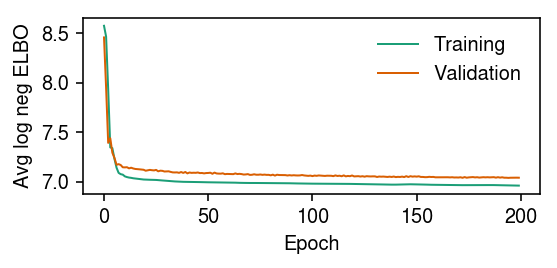
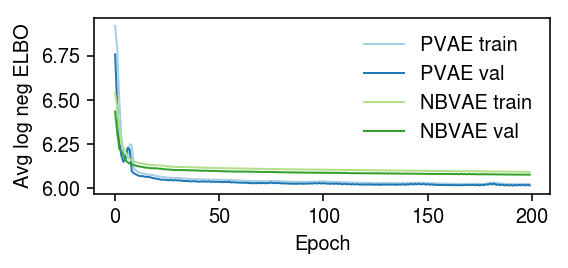
Compare NBVAE fitted values to PVAE fitted values

diff --git a/docs/fitted-values.html b/docs/fitted-values.html
@@ -1,7 +1,7 @@
 <!DOCTYPE html>
 <html lang="en">
 <head>
-<!-- 2020-03-16 Mon 19:49 -->
+<!-- 2020-07-25 Sat 16:41 -->
 <meta charset="utf-8">
 <meta name="viewport" content="width=device-width, initial-scale=1">
 <title>Comparison of fitted values</title>
@@ -344,7 +344,7 @@ np.save(<span class="org-string">'/scratch/midway2/aksarkar/modes/fitted-values/
 </div>
 
 <div class="org-src-container">
-<pre class="src src-sh">sbatch --partition=mstephens -n1 --mem=8G --time=24:00:00
+<pre class="src src-sh">sbatch --partition=broadwl -n1 --mem=8G --time=24:00:00
 <span class="org-comment-delimiter">#</span><span class="org-comment">!/bin/bash</span>
 <span class="org-builtin">source</span> activate scmodes
 python &lt;&lt;EOF
@@ -373,21 +373,29 @@ python &lt;&lt;EOF
 <span class="org-sh-heredoc">lam2 = m.denoise(xt, n_samples=100)</span>
 <span class="org-sh-heredoc">np.save('/scratch/midway2/aksarkar/modes/fitted-values/b_cells-pvae-lam', lam2)</span>
 <span class="org-sh-heredoc">np.save('/scratch/midway2/aksarkar/modes/fitted-values/b_cells-pvae-trace', np.array(m.trace))</span>
+
+<span class="org-sh-heredoc">m = scmodes.lra.NBVAE(input_dim=train.shape[1], latent_dim=8, disp_by_gene=True).fit(xt, test_size=0.1, lr=1e-3, max_epochs=200, trace=True)</span>
+<span class="org-sh-heredoc">lam3 = m.denoise(xt, n_samples=100)</span>
+<span class="org-sh-heredoc">np.save('/scratch/midway2/aksarkar/modes/fitted-values/b_cells-nbvae-lam', lam3)</span>
+<span class="org-sh-heredoc">np.save('/scratch/midway2/aksarkar/modes/fitted-values/b_cells-nbvae-trace', np.array(m.trace))</span>
 <span class="org-sh-heredoc">EOF</span>
 </pre>
 </div>
 
 <p>
-Examine the PVAE optimization trace.
+Examine the VAE optimization traces.
 </p>
 
 <div class="org-src-container">
-<pre class="src src-ipython"><span class="org-variable-name">cm</span> = plt.get_cmap(<span class="org-string">'Dark2'</span>)
+<pre class="src src-ipython"><span class="org-variable-name">cm</span> = plt.get_cmap(<span class="org-string">'Paired'</span>)
 plt.clf()
 plt.gcf().set_size_inches(4, 2)
 <span class="org-variable-name">trace</span> = np.load(<span class="org-string">'/scratch/midway2/aksarkar/modes/fitted-values/b_cells-pvae-trace.npy'</span>)
-<span class="org-keyword">for</span> i, (t, s, k) <span class="org-keyword">in</span> <span class="org-builtin">enumerate</span>(<span class="org-builtin">zip</span>(trace.T, [900, 100], [<span class="org-string">'Training'</span>, <span class="org-string">'Validation'</span>])):
+<span class="org-variable-name">trace2</span> = np.load(<span class="org-string">'/scratch/midway2/aksarkar/modes/fitted-values/b_cells-nbvae-trace.npy'</span>)
+<span class="org-keyword">for</span> i, (t, s, k) <span class="org-keyword">in</span> <span class="org-builtin">enumerate</span>(<span class="org-builtin">zip</span>(trace.T, [900, 100], [<span class="org-string">'PVAE train'</span>, <span class="org-string">'PVAE val'</span>])):
   plt.plot(np.log(t / s), lw=1, c=cm(i), label=k)
+<span class="org-keyword">for</span> i, (t, s, k) <span class="org-keyword">in</span> <span class="org-builtin">enumerate</span>(<span class="org-builtin">zip</span>(trace2.T, [900, 100], [<span class="org-string">'NBVAE train'</span>, <span class="org-string">'NBVAE val'</span>])):
+  plt.plot(np.log(t / s), lw=1, c=cm(i + 2), label=k)
 plt.legend(frameon=<span class="org-constant">False</span>)
 plt.xlabel(<span class="org-string">'Epoch'</span>)
 plt.ylabel(<span class="org-string">'Avg log neg ELBO'</span>)
@@ -411,6 +419,7 @@ Read the results.
 <span class="org-variable-name">lam0</span> = np.load(<span class="org-string">'/scratch/midway2/aksarkar/modes/fitted-values/b_cells-nmf-lam.npy'</span>)
 <span class="org-variable-name">lam1</span> = np.load(<span class="org-string">'/scratch/midway2/aksarkar/modes/fitted-values/b_cells-glmpca-lam.npy'</span>)
 <span class="org-variable-name">lam2</span> = np.load(<span class="org-string">'/scratch/midway2/aksarkar/modes/fitted-values/b_cells-pvae-lam.npy'</span>)
+<span class="org-variable-name">lam3</span> = np.load(<span class="org-string">'/scratch/midway2/aksarkar/modes/fitted-values/b_cells-nbvae-lam.npy'</span>)
 </pre>
 </div>
 
@@ -420,8 +429,8 @@ Compare the fitted values of each method against other.
 
 <div class="org-src-container">
 <pre class="src src-ipython">plt.clf()
-<span class="org-variable-name">fig</span>, <span class="org-variable-name">ax</span> = plt.subplots(1, 2, sharey=<span class="org-constant">True</span>)
-fig.set_size_inches(4, 2.5)
+<span class="org-variable-name">fig</span>, <span class="org-variable-name">ax</span> = plt.subplots(1, 3, sharey=<span class="org-constant">True</span>)
+fig.set_size_inches(5.5, 2.5)
 
 ax[0].scatter(np.sqrt(lam1.ravel()[::50]), np.sqrt(lam0.ravel()[::50]), s=1, c=<span class="org-string">'k'</span>, alpha=0.1)
 ax[0].plot([0, 11], [0, 11], lw=1, ls=<span class="org-string">':'</span>, c=<span class="org-string">'r'</span>)
@@ -431,6 +440,10 @@ ax[0].set_ylabel(r<span class="org-string">'NMF $\sqrt{\hat\lambda}$'</span>)
 ax[1].scatter(np.sqrt(lam2.ravel()[::50]), np.sqrt(lam0.ravel()[::50]), s=1, c=<span class="org-string">'k'</span>, alpha=0.1)
 ax[1].plot([0, 11], [0, 11], lw=1, ls=<span class="org-string">':'</span>, c=<span class="org-string">'r'</span>)
 ax[1].set_xlabel(r<span class="org-string">'PVAE $\sqrt{\hat\lambda}$'</span>)
+
+ax[2].scatter(np.sqrt(lam3.ravel()[::50]), np.sqrt(lam0.ravel()[::50]), s=1, c=<span class="org-string">'k'</span>, alpha=0.1)
+ax[2].plot([0, 11], [0, 11], lw=1, ls=<span class="org-string">':'</span>, c=<span class="org-string">'r'</span>)
+ax[2].set_xlabel(r<span class="org-string">'NBVAE $\sqrt{\hat\lambda}$'</span>)
 
 <span class="org-variable-name">a</span> = fig.add_subplot(111, frame_on=<span class="org-constant">False</span>, xticks=[], yticks=[])
 a.set_title(<span class="org-string">'B cell'</span>)
@@ -1464,7 +1477,7 @@ fig.tight_layout()
 </div>
 <div id="postamble" class="status">
 <p class="author">Author: Abhishek Sarkar</p>
-<p class="date">Created: 2020-03-16 Mon 19:49</p>
+<p class="date">Created: 2020-07-25 Sat 16:41</p>
 <p class="validation"><a href="http://validator.w3.org/check?uri=referer">Validate</a></p>
 </div>
 </body>
